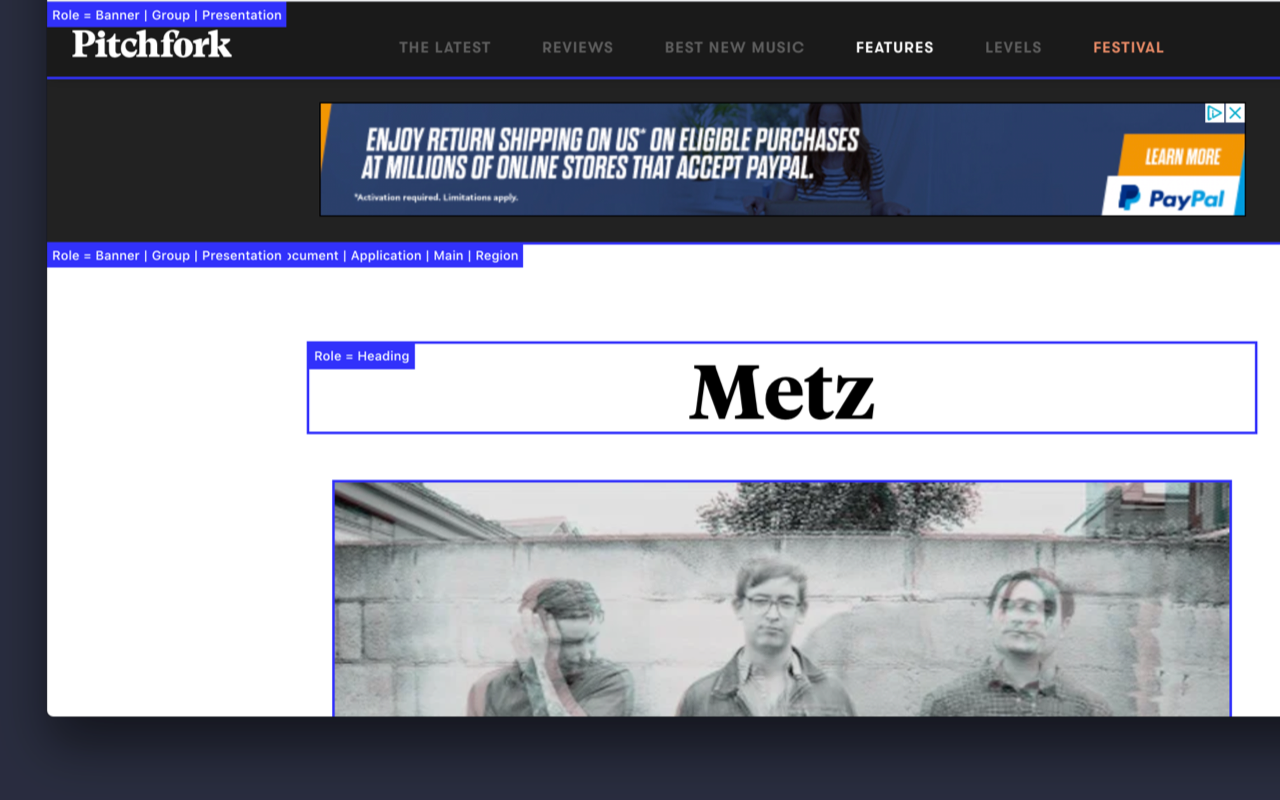
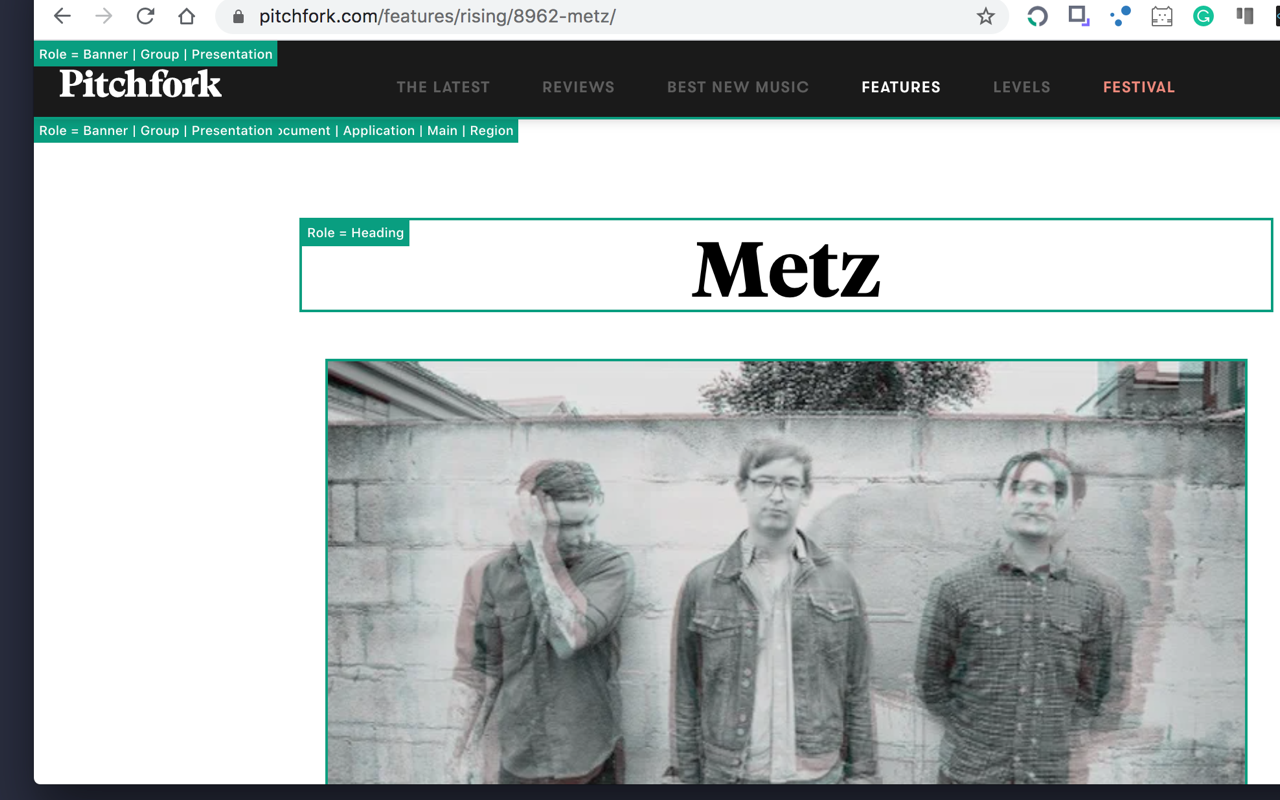
manifest update

diff --git a/css/styles.css b/css/styles.css
@@ -1,10 +1,10 @@
 :root {
-    --a11y-aria-outline:2px #3131FB solid!important;
+    --a11y-aria-outline:2px #089E7F solid!important;
     --a11y-alt-outline:2px #F5595D solid!important;
-    --a11y-type-outline:2px #089E7F solid!important;
-    --a11y-aria-bg:#3131FB;
+    --a11y-type-outline:2px #154CA7 solid!important;
+    --a11y-aria-bg:#089E7F;
     --a11y-alt-bg:#F5595D;
-    --a11y-type-bg:#089E7F;
+    --a11y-type-bg:#154CA7;
     --a11y-white:#fff;
     --ally-menuhover:#F4F8FF;
     --greyoutline:1px #E0E5EB solid;
